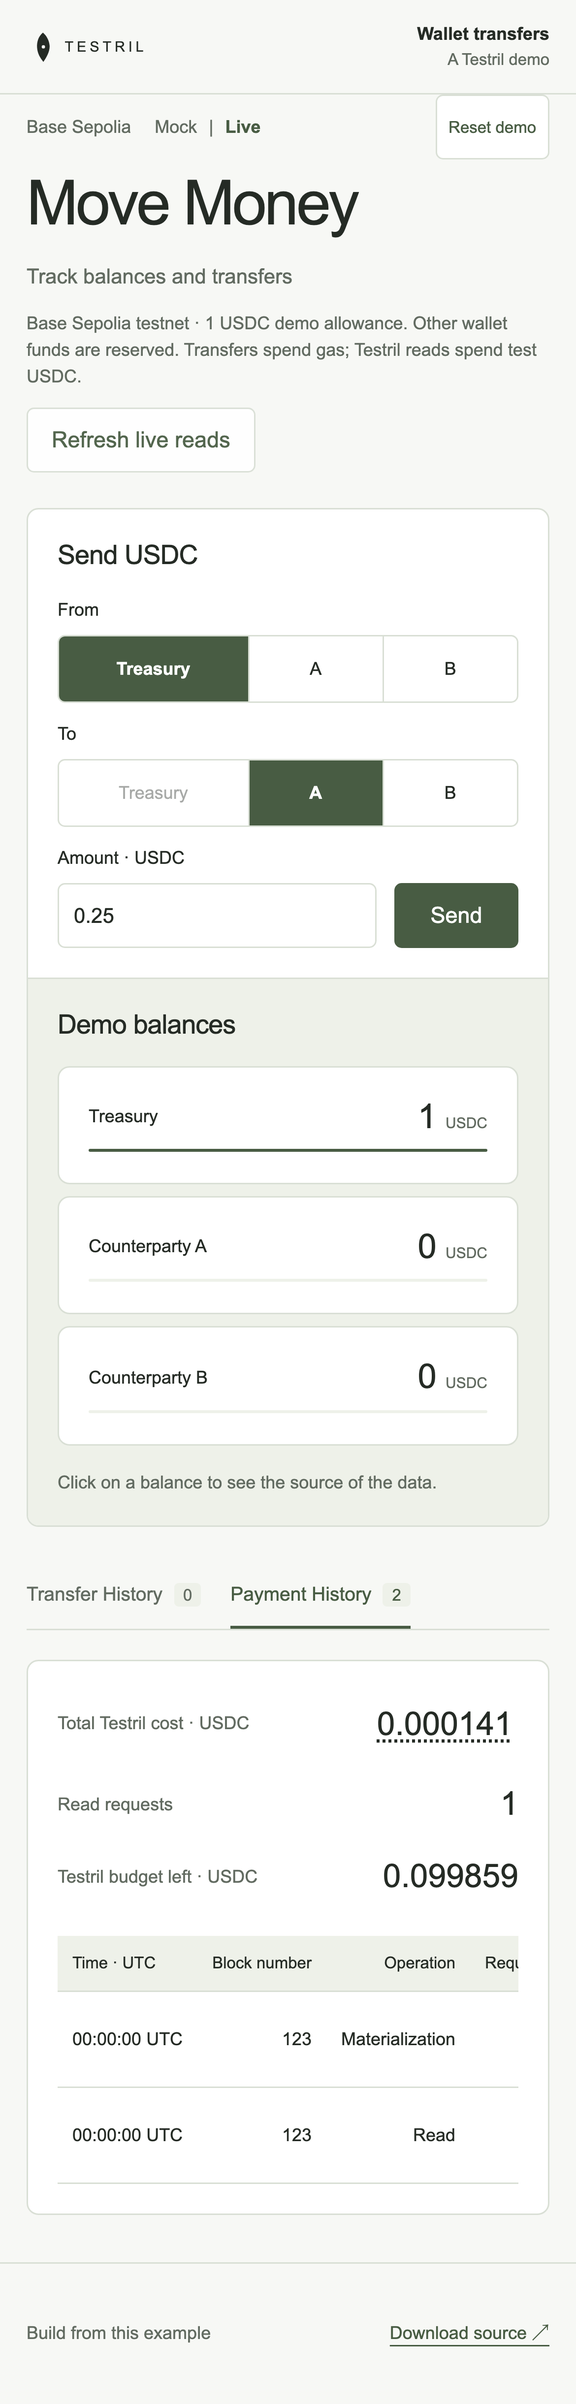
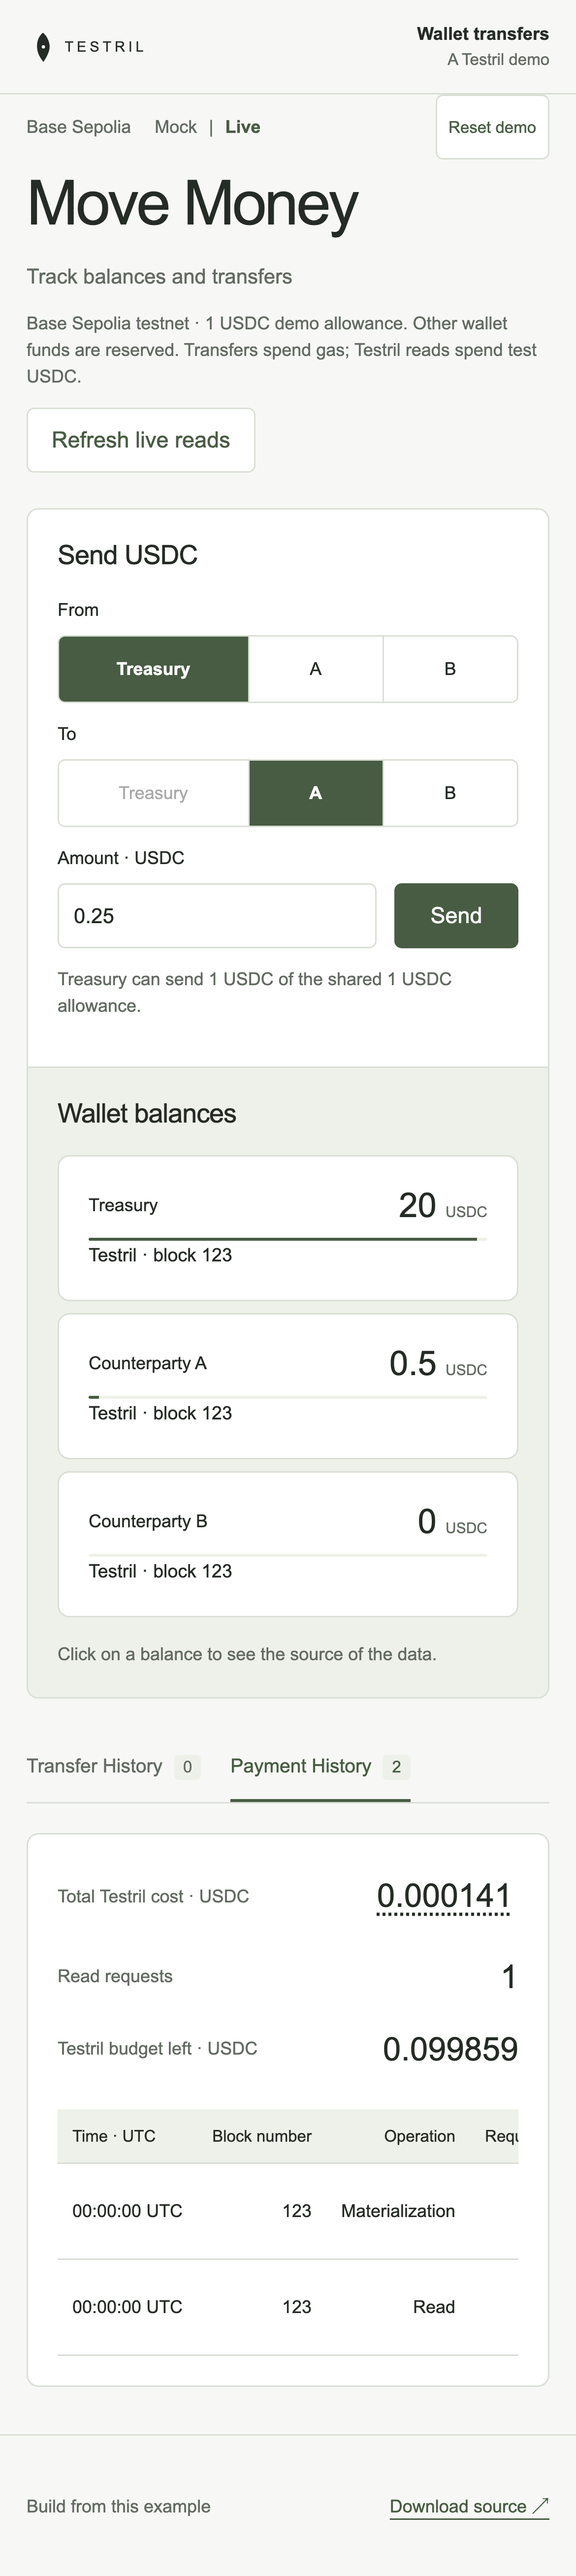
Show full Testril wallet balances separately from transfer allowance

diff --git a/demos/treasury-analysis/public/app.js b/demos/treasury-analysis/public/app.js
@@ -87,7 +87,10 @@ function lock(value) {
   for (const input of document.querySelectorAll('[name="data-mode"]'))
     input.disabled = value || (input.value === "live" && !liveAvailable);
   for (const balance of document.querySelectorAll("[data-balance]"))
-    balance.disabled = value;
+    balance.disabled =
+      value ||
+      (state?.mode === "live" &&
+        state.balanceRead.balances[balance.dataset.balance] === null);
   if (!value && state) updateRecipients();
   if (!value && state?.mode === "live" && state.refreshNeeded)
     $("transfer").disabled = true;
@@ -95,6 +98,10 @@ function lock(value) {
 const selectedWallet = (id) => $(id).querySelector("input:checked").value;
 function updateRecipients() {
   const sender = selectedWallet("from");
+  $("transfer-allowance").hidden = state.mode !== "live";
+  if (state.mode === "live")
+    $("transfer-allowance").textContent =
+      `${name(sender)} can send ${decimalAmount(state.balances[sender])} USDC of the shared 1 USDC allowance.`;
   if (sender === selectedWallet("to"))
     $("to").querySelector(`input:not([value="${sender}"])`).checked = true;
   for (const input of $("to").querySelectorAll("input"))
@@ -106,7 +113,12 @@ function renderState() {
   $("network-name").textContent = state.chain.name;
   $("live-note").hidden = !live;
   $("refresh-live").hidden = !live;
-  $("balances-heading").textContent = live ? "Demo balances" : "Balances";
+  $("balances-heading").textContent = live ? "Wallet balances" : "Balances";
+  const balances = live ? state.balanceRead.balances : state.balances;
+  const total = Object.values(balances).reduce(
+    (sum, value) => sum + BigInt(value ?? "0"),
+    0n,
+  );
   $("cost-label").textContent = live
     ? "Total Testril cost · USDC"
     : "Total read cost · USDC";
@@ -123,28 +135,33 @@ function renderState() {
       card.type = "button";
       card.dataset.balance = wallet.id;
       card.id = `wallet-${wallet.id}`;
-      card.disabled = busy;
+      const raw = balances[wallet.id];
+      const display = raw === null ? "Not yet read" : decimalAmount(raw);
+      card.disabled = busy || raw === null;
       card.setAttribute(
         "aria-label",
-        `${wallet.name} balance: ${decimalAmount(state.balances[wallet.id])} USDC. Show provenance.`,
+        `${wallet.name} balance: ${display}${raw === null ? "" : " USDC. Show provenance."}`,
       );
-      const balance = element(
-        "strong",
-        decimalAmount(state.balances[wallet.id]),
-      );
+      const balance = element("strong", display);
       balance.id = `balance-${wallet.id}`;
       const value = element("span", undefined, "wallet-value");
-      value.append(balance, element("small", "USDC"));
-      value.classList.toggle(
-        "precise-value",
-        decimalAmount(state.balances[wallet.id]).length > 6,
-      );
+      value.append(balance);
+      if (raw !== null) value.append(element("small", "USDC"));
+      value.classList.toggle("precise-value", display.length > 6);
       const meter = element("meter");
       meter.min = 0;
-      meter.max = 1;
-      meter.value = Number(state.balances[wallet.id]) / 1000000;
+      meter.max = Number(total || 1n) / 1000000;
+      meter.value = Number(raw ?? "0") / 1000000;
+      meter.hidden = raw === null;
       meter.setAttribute("aria-hidden", "true");
       card.append(element("span", wallet.name, "wallet-name"), value, meter);
+      if (live && raw !== null)
+        card.append(
+          element(
+            "small",
+            `Testril · block ${state.balanceRead.sources[wallet.id].block}${state.refreshNeeded ? " · refresh needed" : ""}`,
+          ),
+        );
       card.addEventListener("click", () => inspect("balance", wallet));
       return card;
     }),
@@ -233,11 +250,10 @@ function closeProvenance() {
 }
 function renderReplay() {
   const history = state.historyRead;
-  const balances = replayBalances(
-    state.initialBalances,
-    history.transfers,
-    step,
-  );
+  const live = state.mode === "live";
+  const balances = live
+    ? state.balanceRead.balances
+    : replayBalances(state.initialBalances, history.transfers, step);
   const empty = history.transfers.length === 0;
   $("transfer-diagram").hidden = empty;
   $("transfer-help").hidden = empty;
@@ -258,8 +274,9 @@ function renderReplay() {
           }),
         ]),
   );
-  $("replay-caption").textContent =
-    step === history.transfers.length
+  $("replay-caption").textContent = live
+    ? `Last Testril wallet reads · transfers ${step} of ${history.transfers.length}`
+    : step === history.transfers.length
       ? "Latest balances and transfers"
       : `Replay balances · step ${step} of ${history.transfers.length}`;
 }

diff --git a/demos/treasury-analysis/public/transfer-diagram.js b/demos/treasury-analysis/public/transfer-diagram.js
@@ -134,7 +134,9 @@ export function transferDiagram({
           "text-anchor": "middle",
           class: "diagram-wallet-balance",
         },
-        `${decimalAmount(balances[wallet.id])} USDC`,
+        balances[wallet.id] === null
+          ? "Not yet read"
+          : `${decimalAmount(balances[wallet.id])} USDC`,
       ),
     );
     svg.append(node);

diff --git a/demos/treasury-analysis/public/index.html b/demos/treasury-analysis/public/index.html
@@ -92,6 +92,7 @@
                 </div>
               </div>
             </form>
+            <p id="transfer-allowance" class="small muted" hidden></p>
           </section>
           <section class="balances-section" aria-labelledby="balances-heading">
             <div class="section-top">

diff --git a/demos/treasury-analysis/README.md b/demos/treasury-analysis/README.md
@@ -78,10 +78,15 @@ from RPC; Testril's edge is the aggregate for a sender/recipient pair in that bl
 The provenance dialog labels these separately. No transaction-level MCP lineage
 is implied. Replay and provenance inspection use cached results and add no charge.
 
-**Demo balances show the allocation of 1 USDC**, even if Treasury holds more.
-Other wallet funds are recorded as reserves and cannot be sent by the demo. The
-provenance dialog shows the full onchain balance as well as the allocation. An
+**Wallet balances show the full amounts returned by Testril**, with their source
+blocks. Until a successful read, a wallet shows “Not yet read.” Failed refreshes
+retain the last successful reads and label them as needing refresh. Live transfer
+replay keeps those wallet balances visible; it does not calculate historical wallet
+balances. The sender's share of the separate **1 USDC transfer allowance** appears
+below the send form. Other funds are reserved and cannot be sent by the demo. An
 external change to any wallet pauses transfers rather than changing the allowance.
+Run exports keep the allowance ledger in `balances` / `initialBalances` and the
+cached Testril results in `actualBalances` / `balanceRead`.
 
 All live browser tabs share one session. `.live-state.json` persists the allowance,
 payment usage, cached paid results, and a pending signed transaction. It contains
